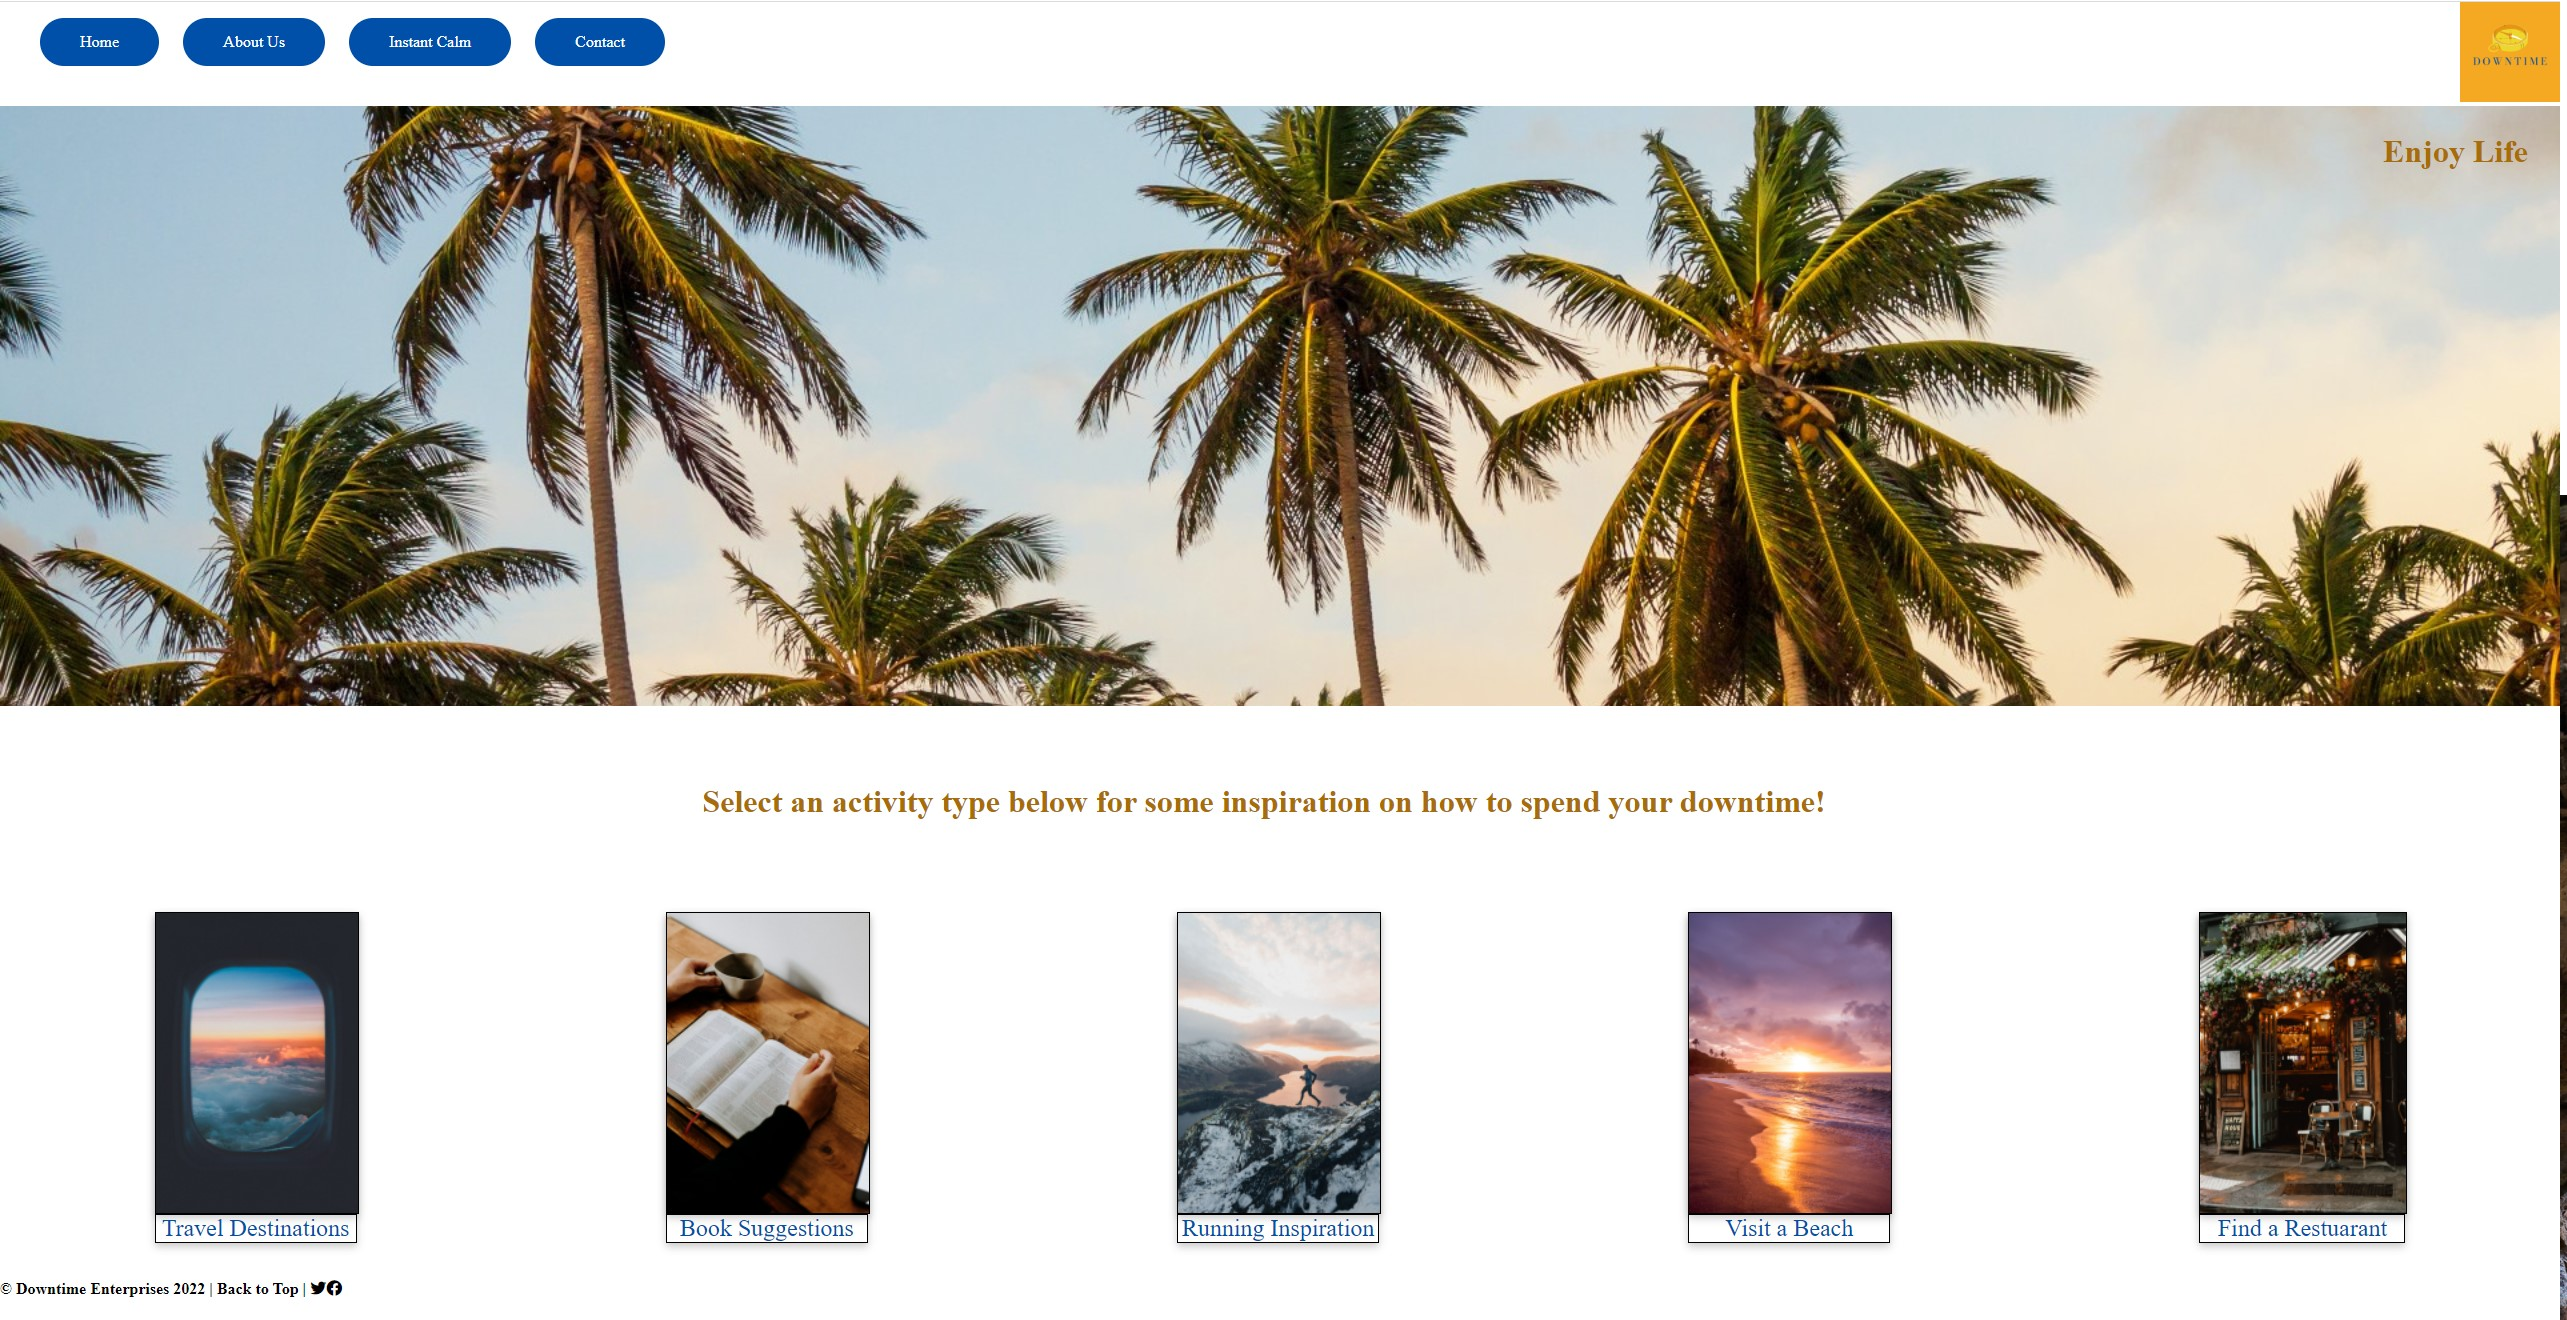
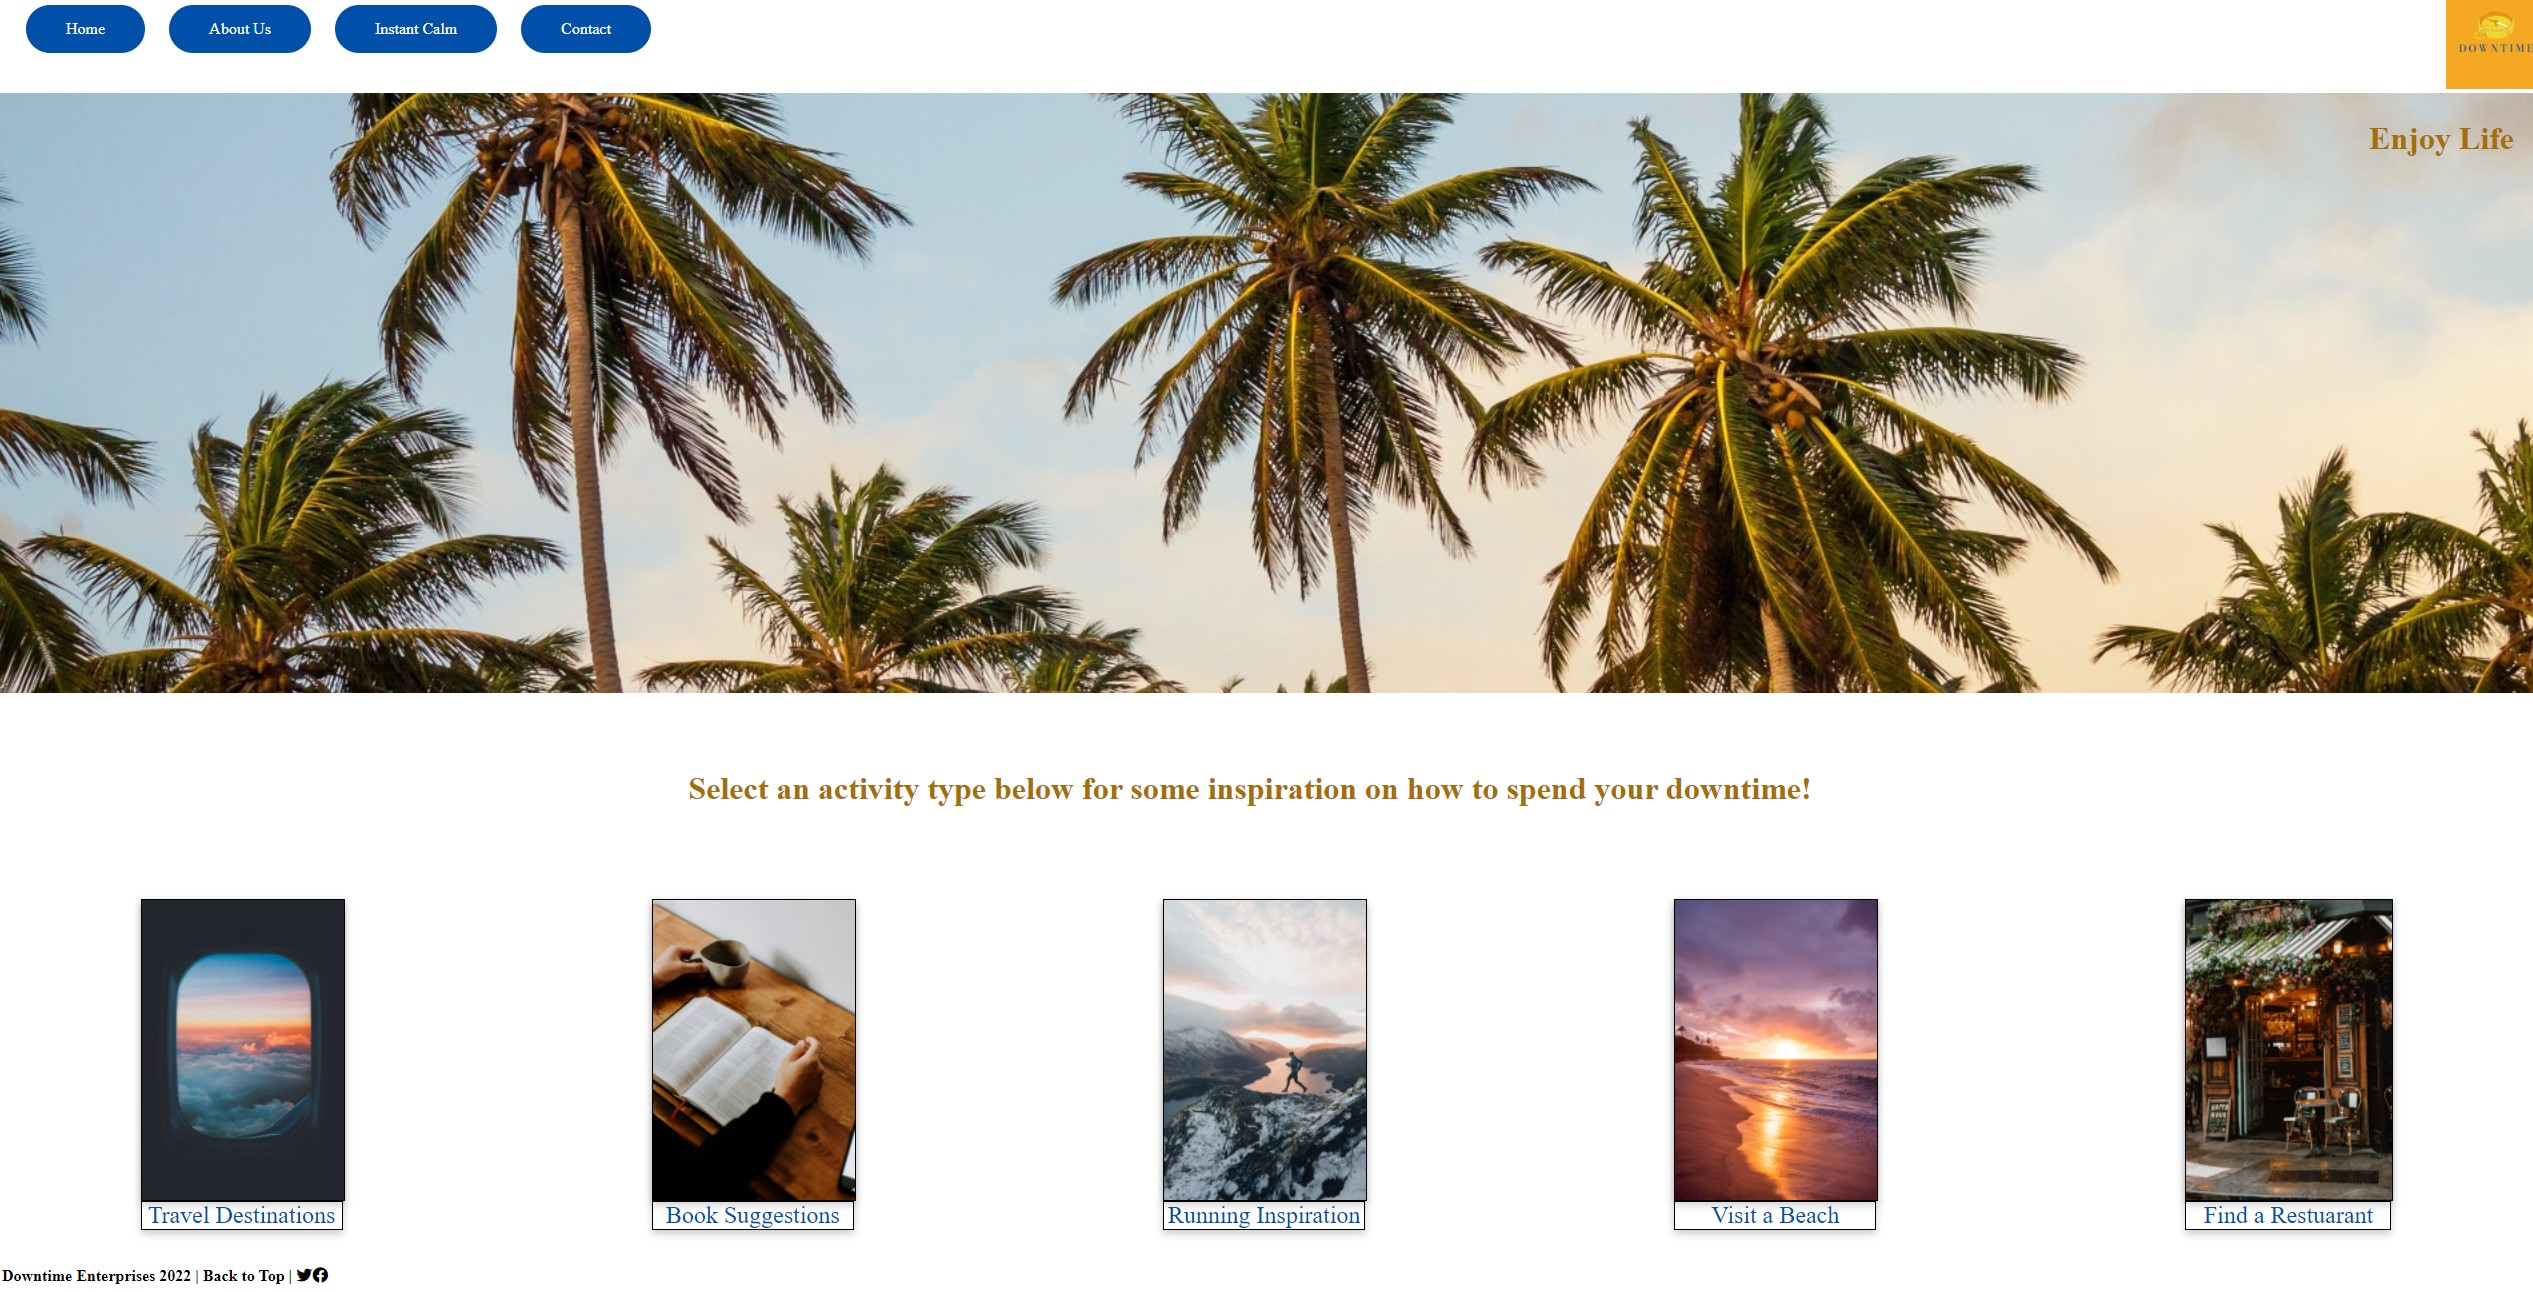
added borders

diff --git a/css/styles.css b/css/styles.css
@@ -1,4 +1,5 @@
-body {background-color: #DFEBE1;}
+body {background-color: #DFEBE1;
+      justify-content: baseline;}
 
 
     
@@ -8,12 +9,21 @@ body {background-color: #DFEBE1;}
 .hero p {color: #007011;
         margin-top: 15%;}
 
-
+.downtime {justify-content: center;
+        max-width: 100%;
+        max-height: auto;
+        margin: 10px;
+        border: 5px solid black;}
 .downtime img {max-width: 100%;
                max-height: auto;
-               
               
 }
 
+.pufc {justify-content: center;
+        max-width: 100%;
+        max-height: auto;
+        margin: 10px;
+        border: 5px solid black;
+       }
 .pufc img {max-width: 100%;
         max-height: auto;}
